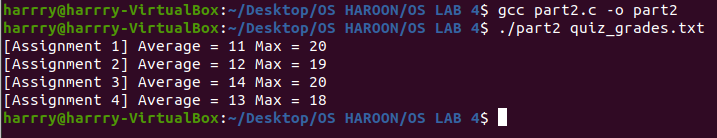
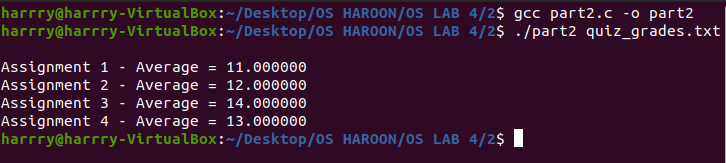
OS LAB WEEK 4

Changed region(s): [[0.0, 0.2899, 0.7364, 0.9275], [0.0, 0.0, 1.0, 0.2899]]

diff --git a/OS LAB 4/2/part2.c b/OS LAB 4/2/part2.c
@@ -97,17 +97,13 @@ int main(int argc, char* argv[]){
 				else if(worker == 0){
                     // variables to store the sum and max grades
 					int sum = 0;
-    				int maxGrade = 0;
 
                     // get the sum and max grades
 					for(int i=0; i<studentRow; i++) {
 						sum += grades[i][homework];
-                        if(maxGrade < grades[i][homework]){
-                            maxGrade = grades[i][homework];
-                        }
 					}
 					double average = sum / studentRow;
-					printf("Assignment %d - Average = %f / Max = %d\n", homework+1 ,average, maxGrade);
+					printf("Assignment %d - Average = %f \n", homework+1 ,average);
 					// reset the average
 					average = 0;
 					break;
